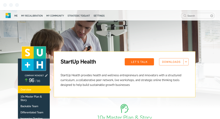
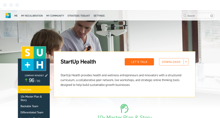
Fixing image crud at bottom of each project

diff --git a/build/static/css/main.25ad8387.css b/build/static/css/main.25ad8387.css
@@ -1,0 +1,2 @@
[1 lines of base64/hex data omitted]
+/*# sourceMappingURL=main.25ad8387.css.map*/
